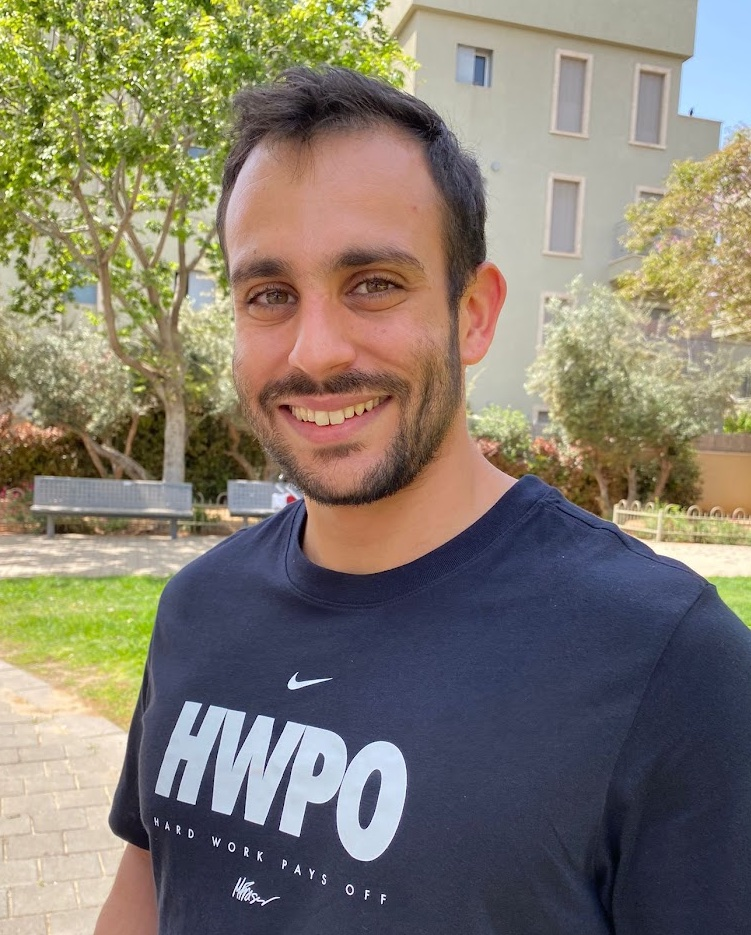
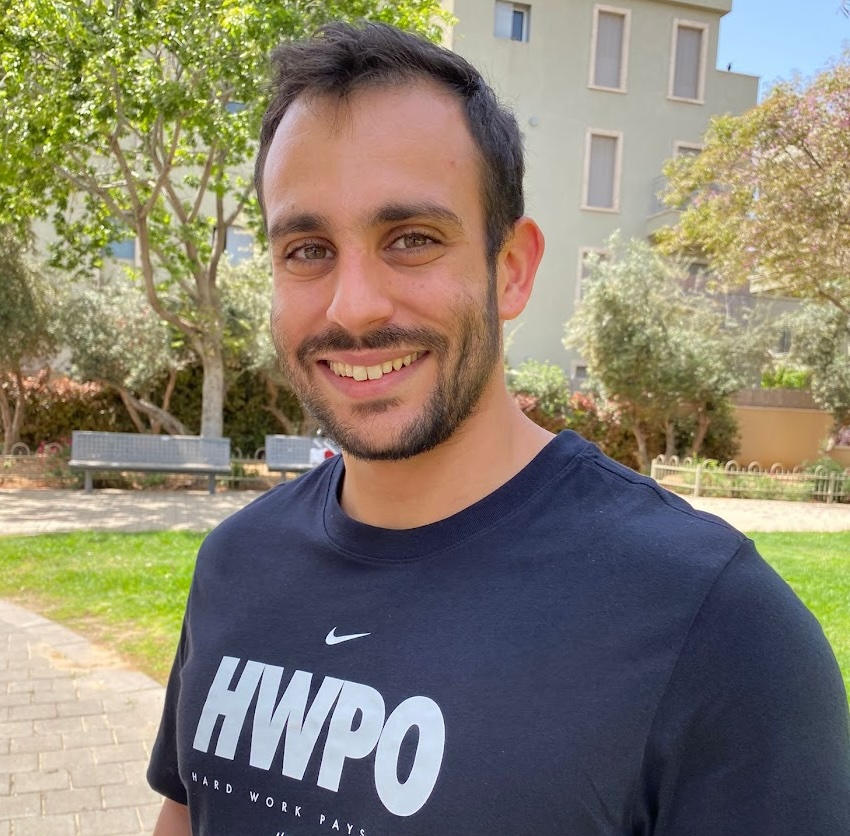
Added Adva Madvil

diff --git a/index.html b/index.html
@@ -212,6 +212,18 @@
             </div>
         </div>
         <br>
+        <div class="row align-text-bottom justify-content-center">
+            <div class="col-md-3">
+                <img src="img/team/adva_madvil_cropped.jpeg" class="rounded" style="width: 100%;">
+            </div>
+            <div class="col-md-3 align-self-end">
+                <p>
+                    <b>Adva Madvil</b> <br>
+                    M.Sc. Student (statistics and data science)
+                </p>
+            </div>
+        </div>
+        <br>
         <br>
         <div class="row justify-content-center">
             <div class="col-md-6">
